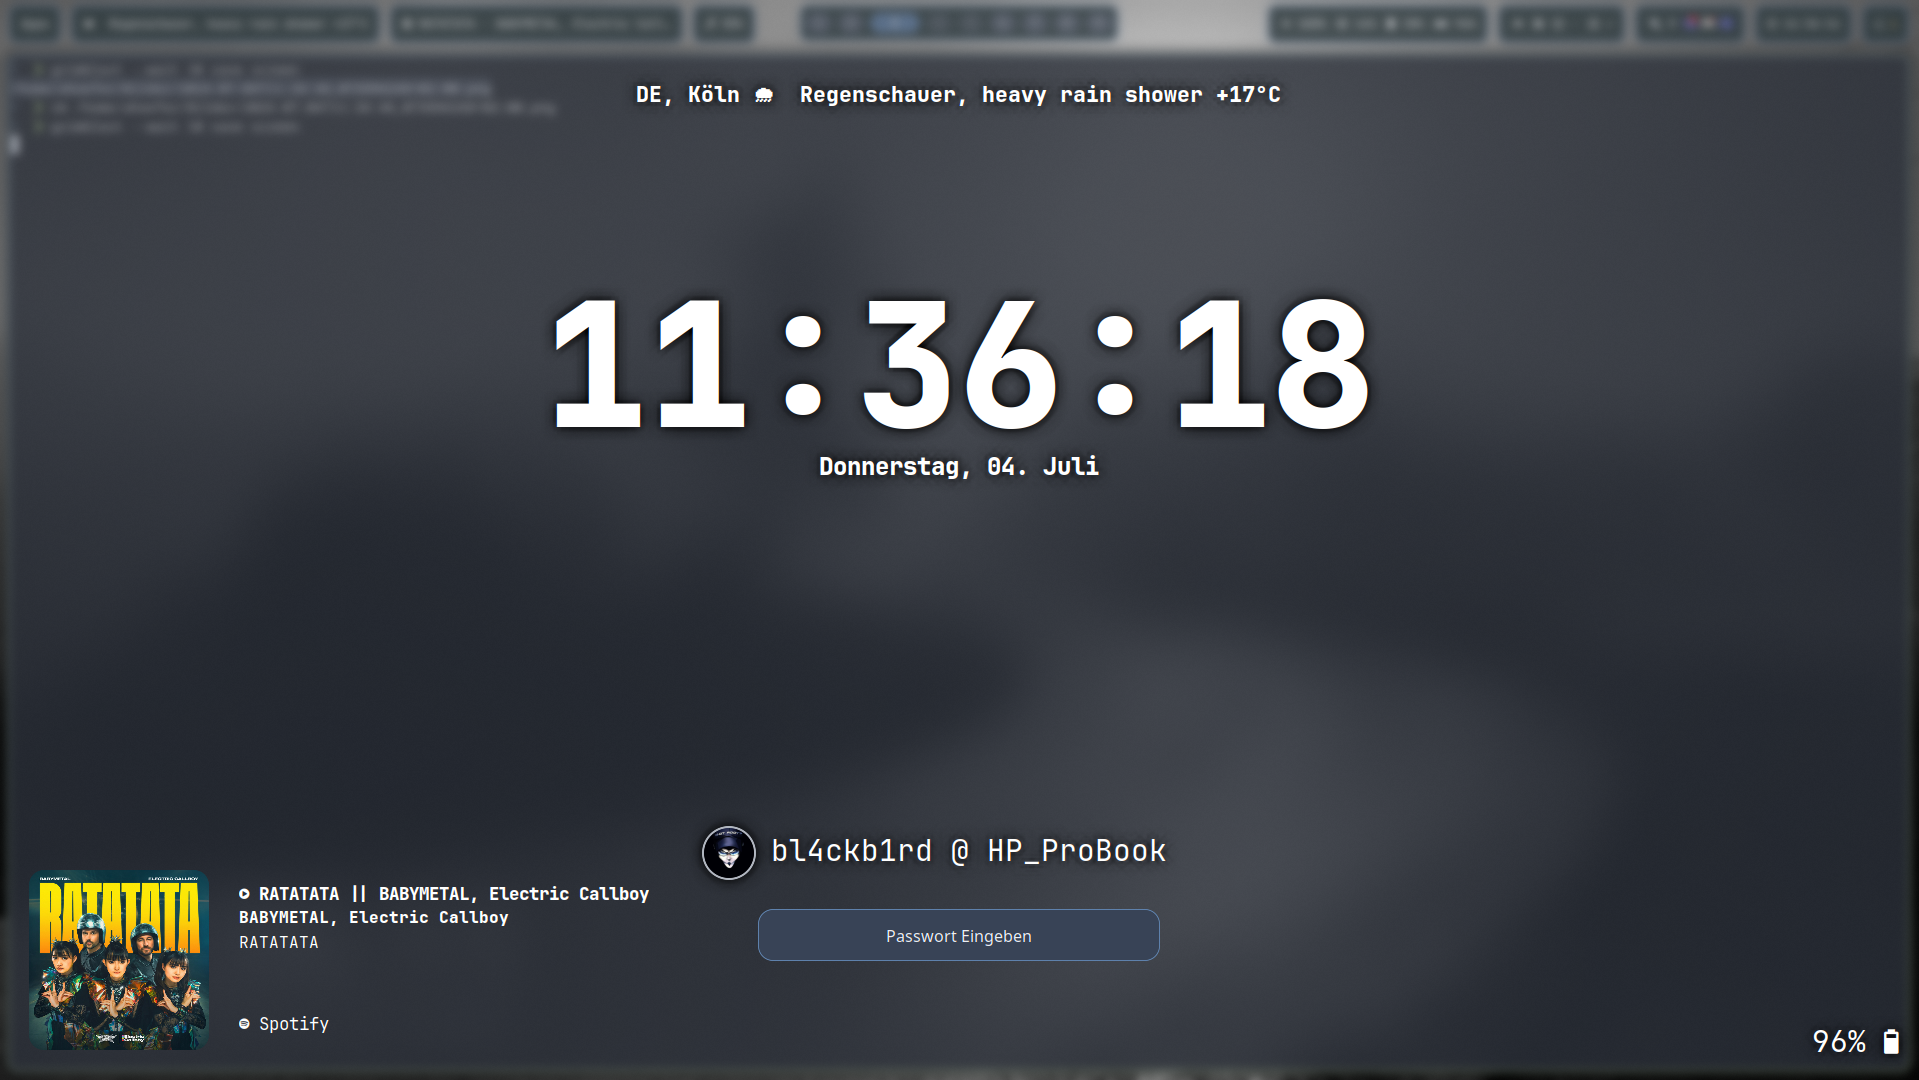
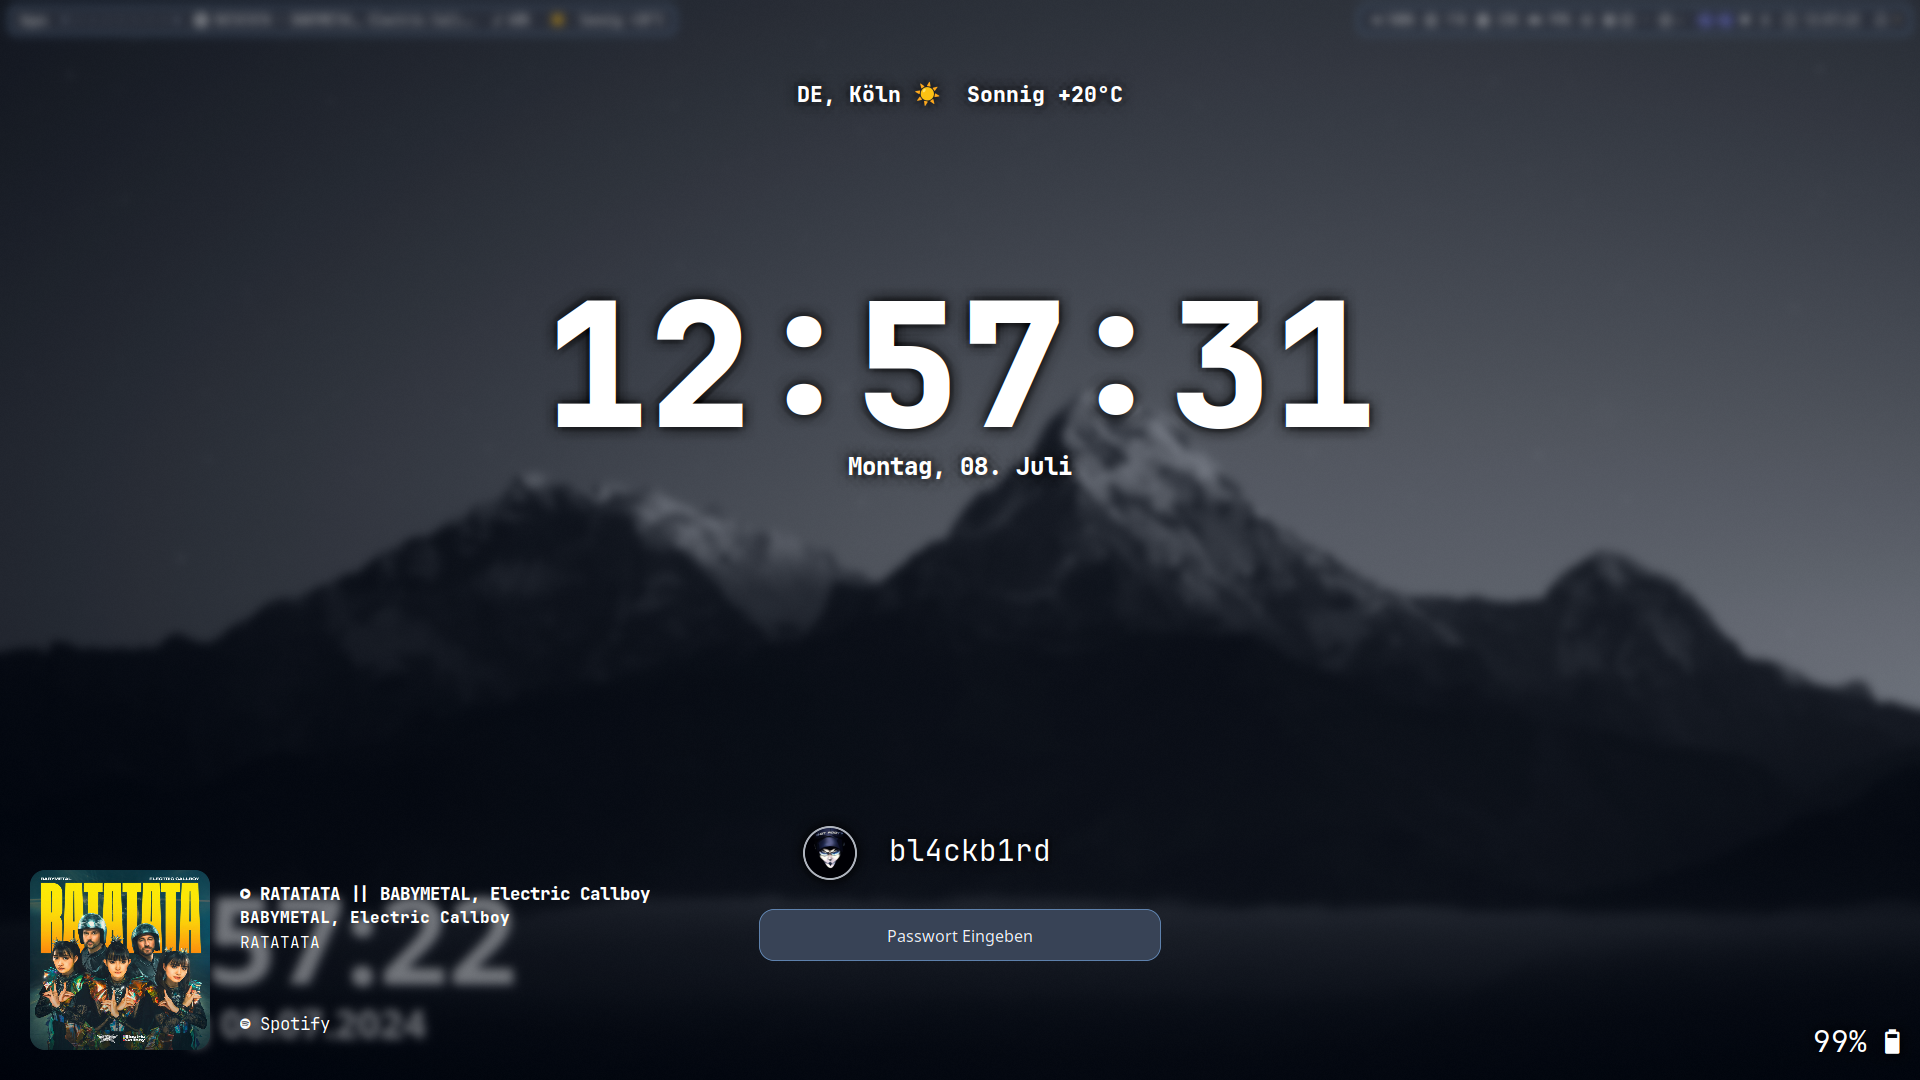
desktop clock and date with shadow - new screenshots

diff --git a/.config/waybar/style.css b/.config/waybar/style.css
@@ -226,6 +226,7 @@ window#waybar {
   font-family: Cantarell ExtraBold;
   font-size: 120px;
   border: 0px solid @blank;
+  text-shadow: 3px 3px rgba(46, 52, 68, 0.6);
 }
 
 #clock.date {
@@ -235,4 +236,5 @@ window#waybar {
   font-family: Cantarell ExtraBold;
   font-size: 40px;
   border: 0px solid @blank;
+  text-shadow: 3px 3px rgba(46, 52, 68, 0.6);
 }
